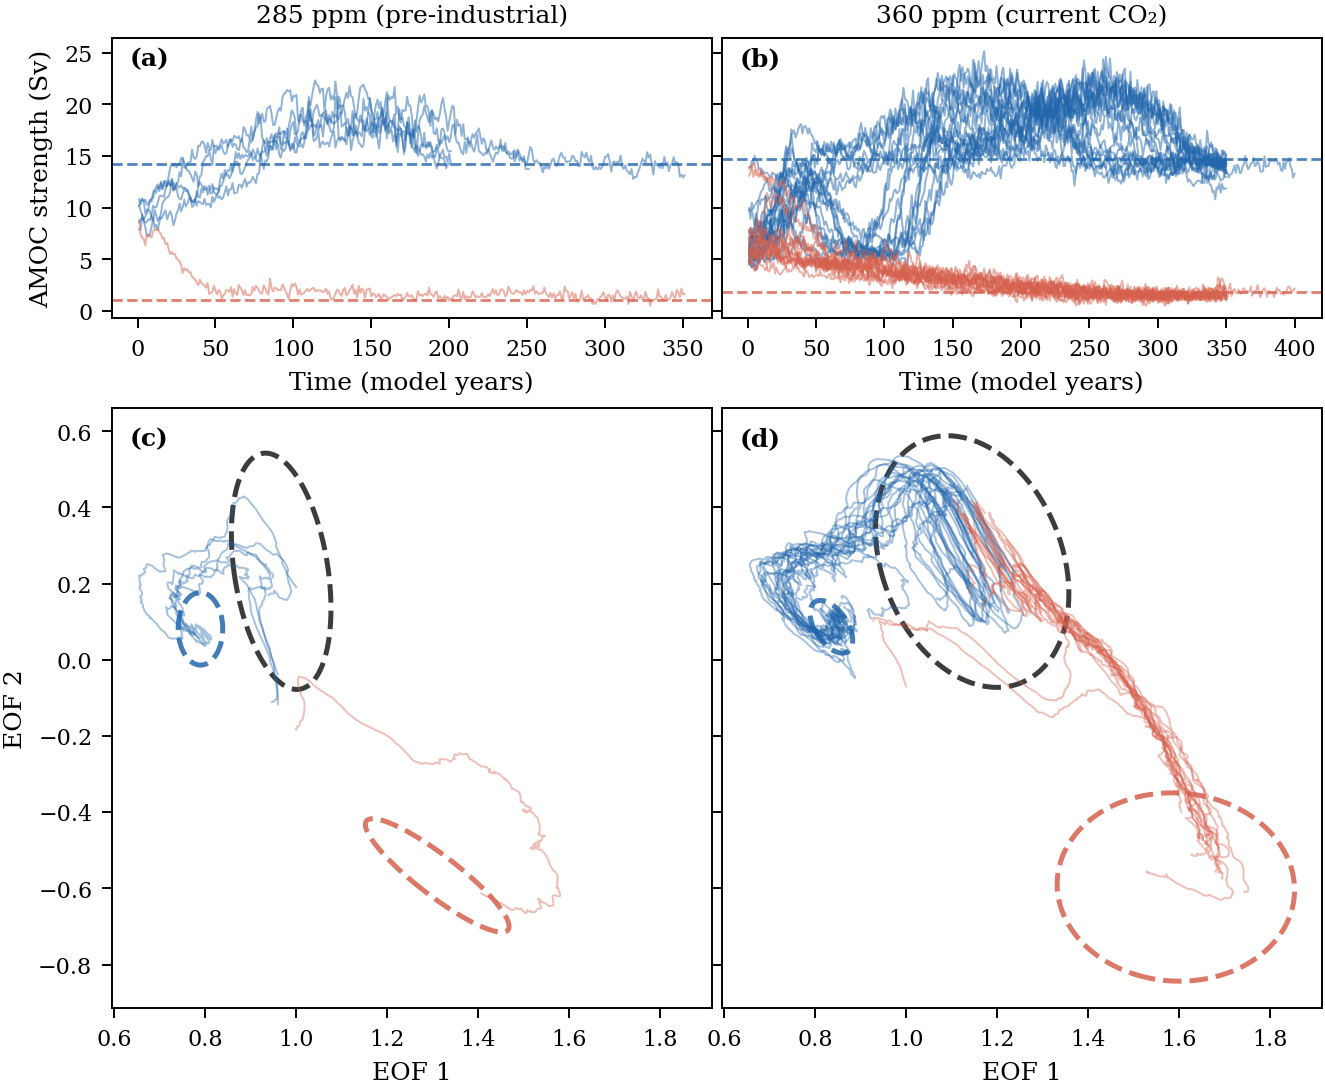
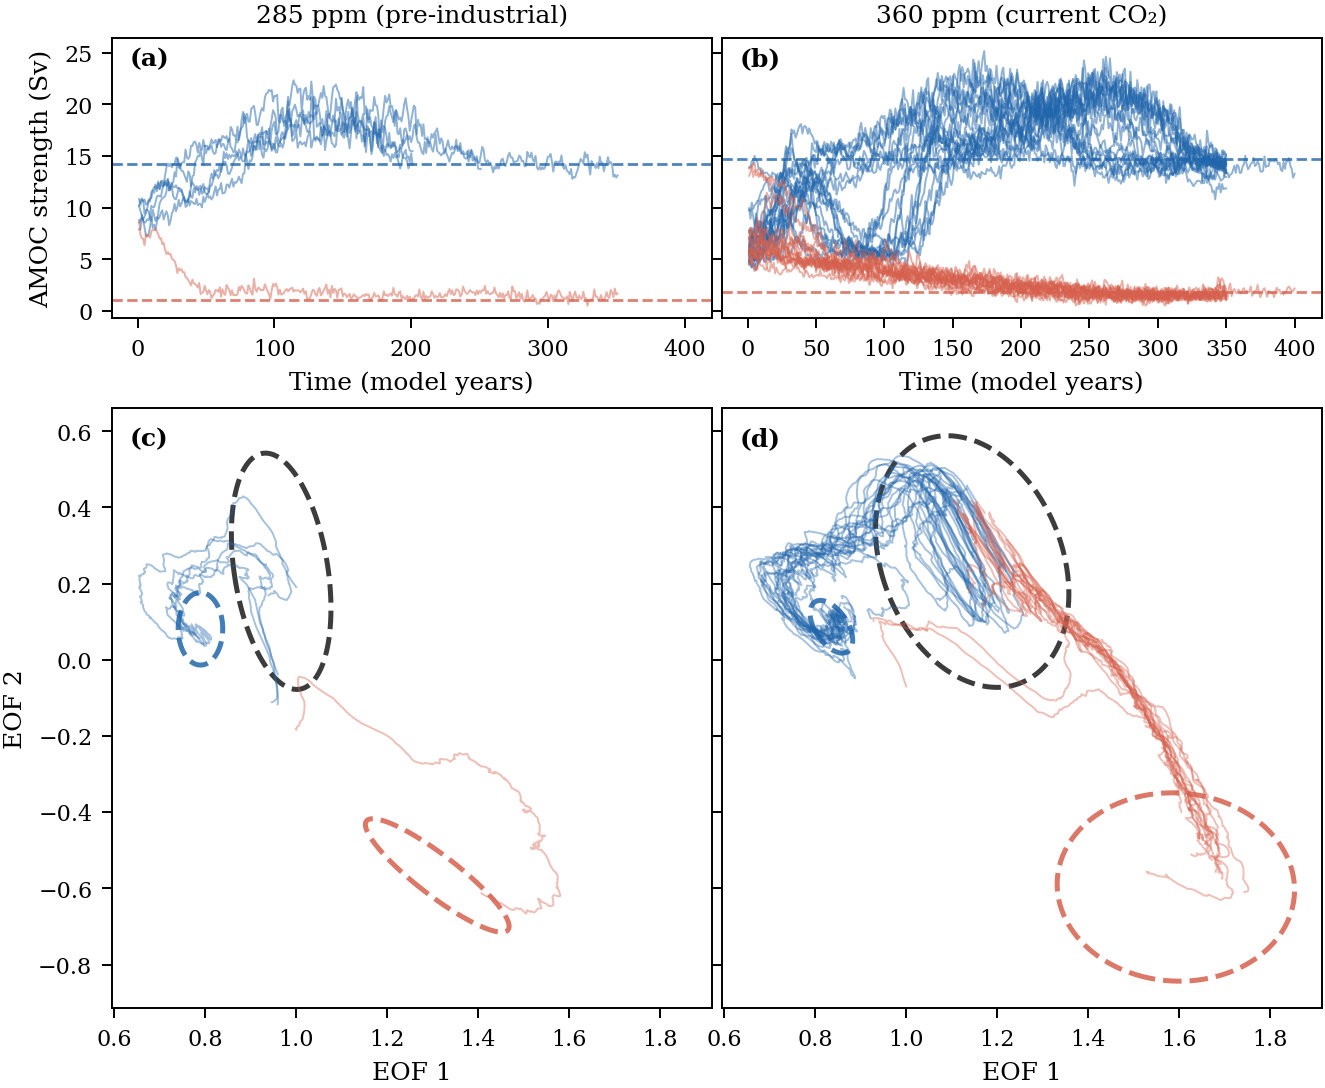
Sync top-panel x-axis ranges across columns

diff --git a/scripts/plotting_paper.py b/scripts/plotting_paper.py
@@ -186,6 +186,11 @@ def main() -> None:
             ax_bot.tick_params(labelleft=False)
         add_panel_label(ax_bot, panel_labels[col + 2])
 
+    x_lo = min(ax.get_xlim()[0] for ax in axes_top)
+    x_hi = max(ax.get_xlim()[1] for ax in axes_top)
+    for ax in axes_top:
+        ax.set_xlim(x_lo, x_hi)
+
     out_path = PLOTS_DIR / "plasim_paper.png"
     fig.savefig(out_path, dpi=200, bbox_inches="tight")
     print(f"Figure saved: {out_path}")